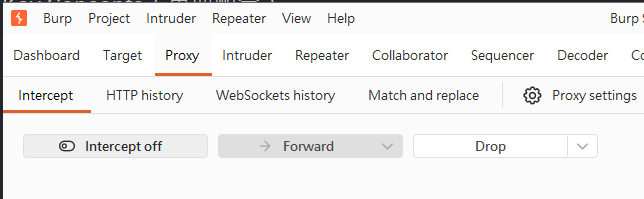
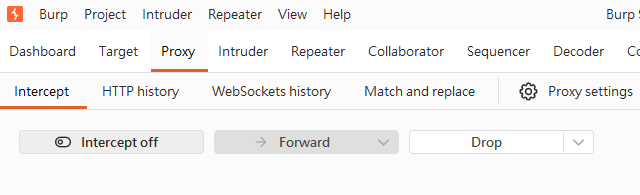
fix img

diff --git a/burp-suite-notes/01-Getting-Started/01-Intercepting-HTTP-Traffic.md b/burp-suite-notes/01-Getting-Started/01-Intercepting-HTTP-Traffic.md
@@ -82,8 +82,10 @@ Burp 會暫停 HTTP Request，等待使用者決定是否 Forward。
 
 ---
 
-![Burp Proxy Settings](../assets/01-getting-started/01-intercept-http-traffic/burp-interface.png)
 
+# Screenshot（截圖）
+![Burp Proxy Settings](../assets/01-getting-started/01-intercept-http-traffic/burp-interface.png)
+> Figure 1. Burp Proxy interface.
 
 # Notes（筆記）
 
